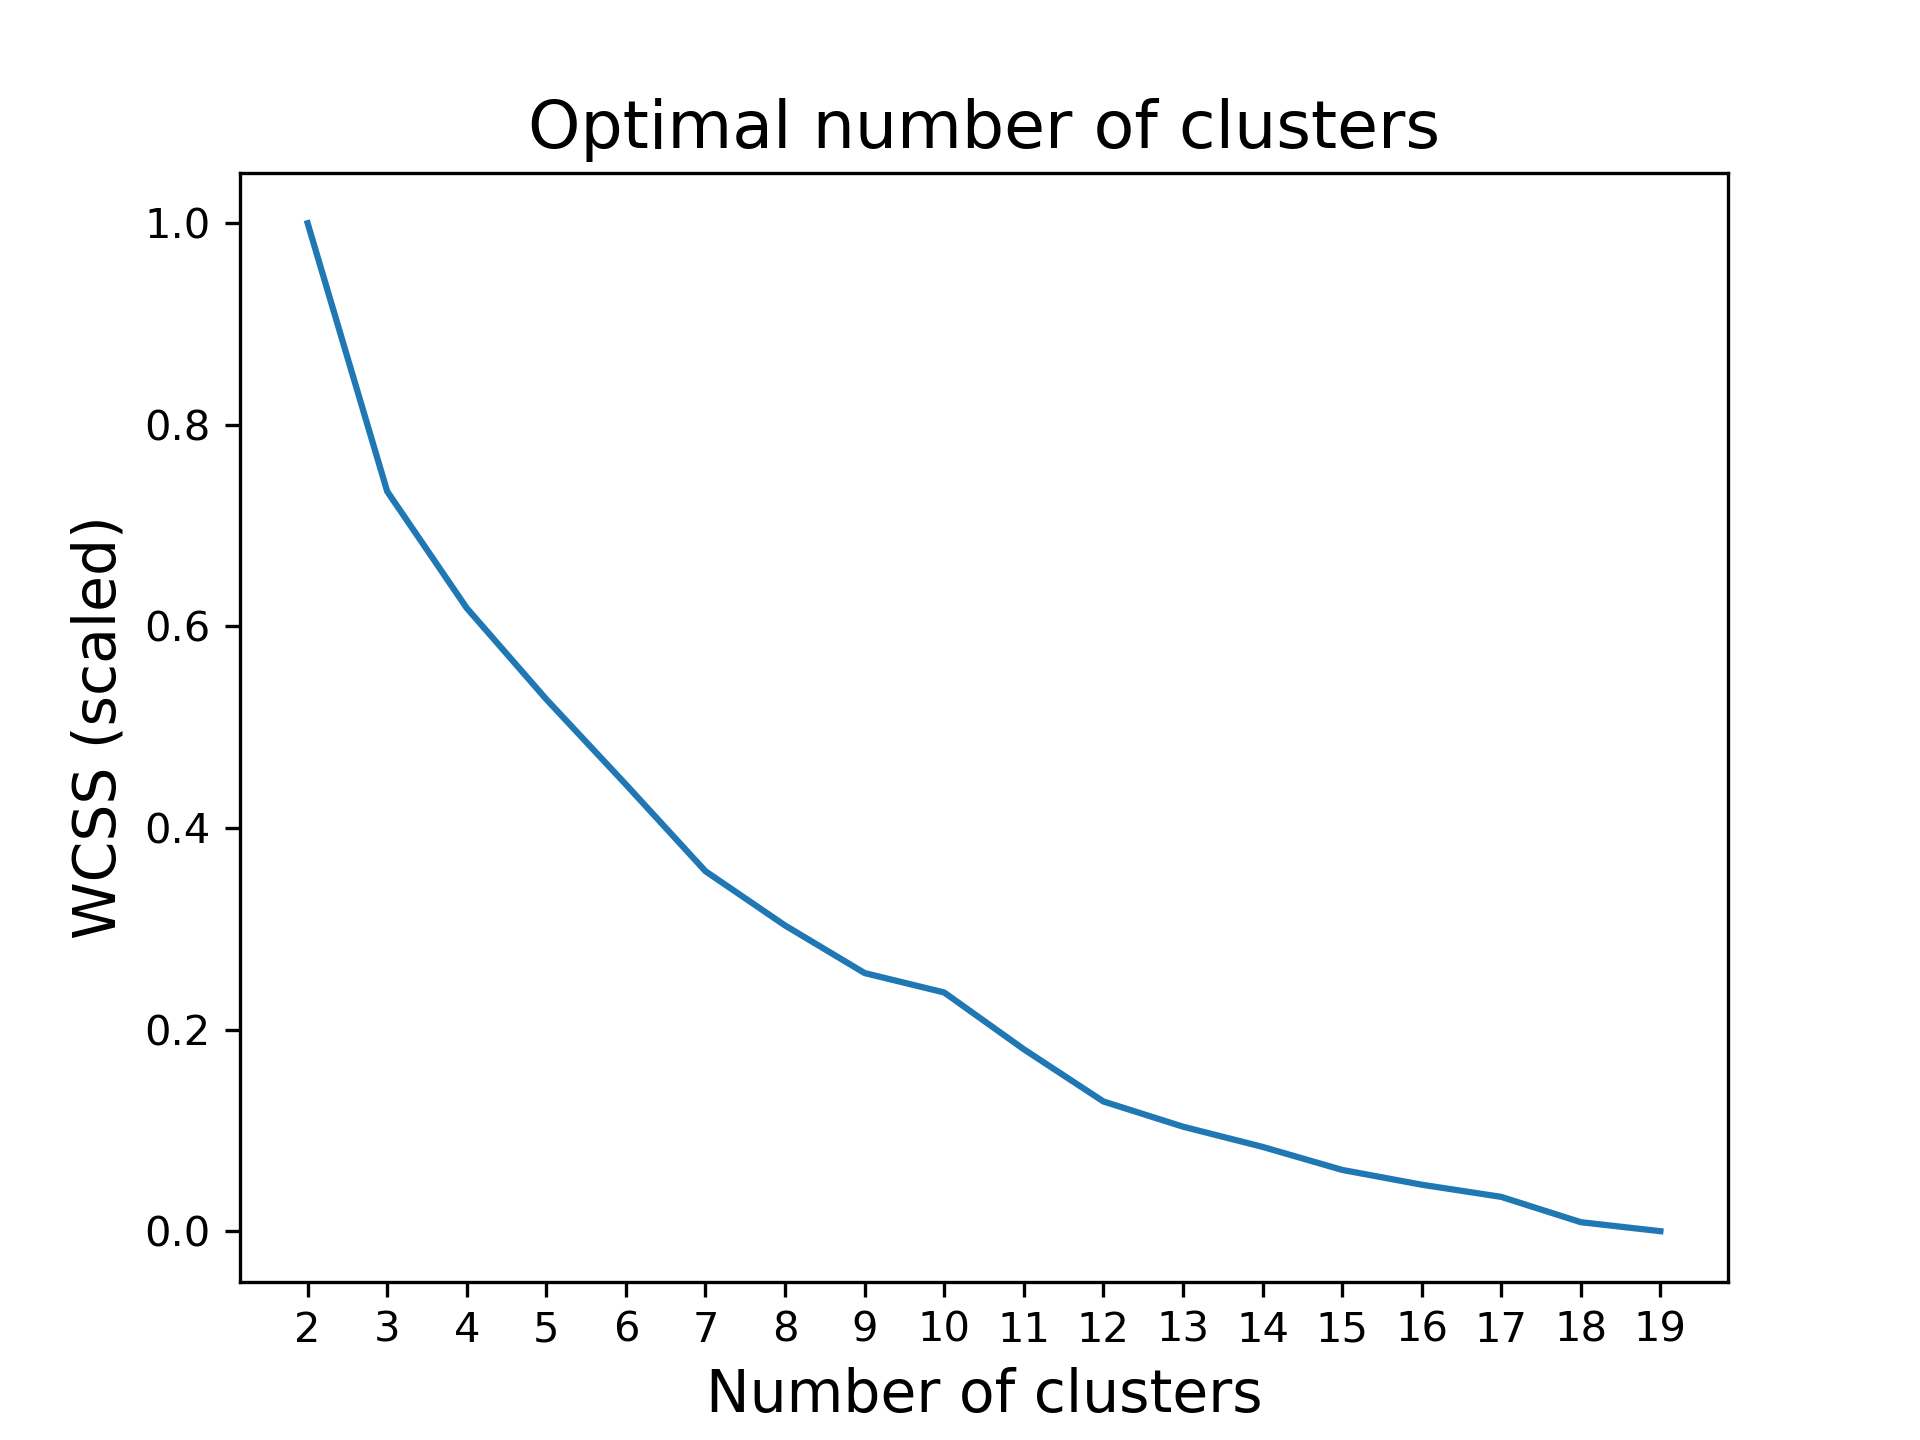
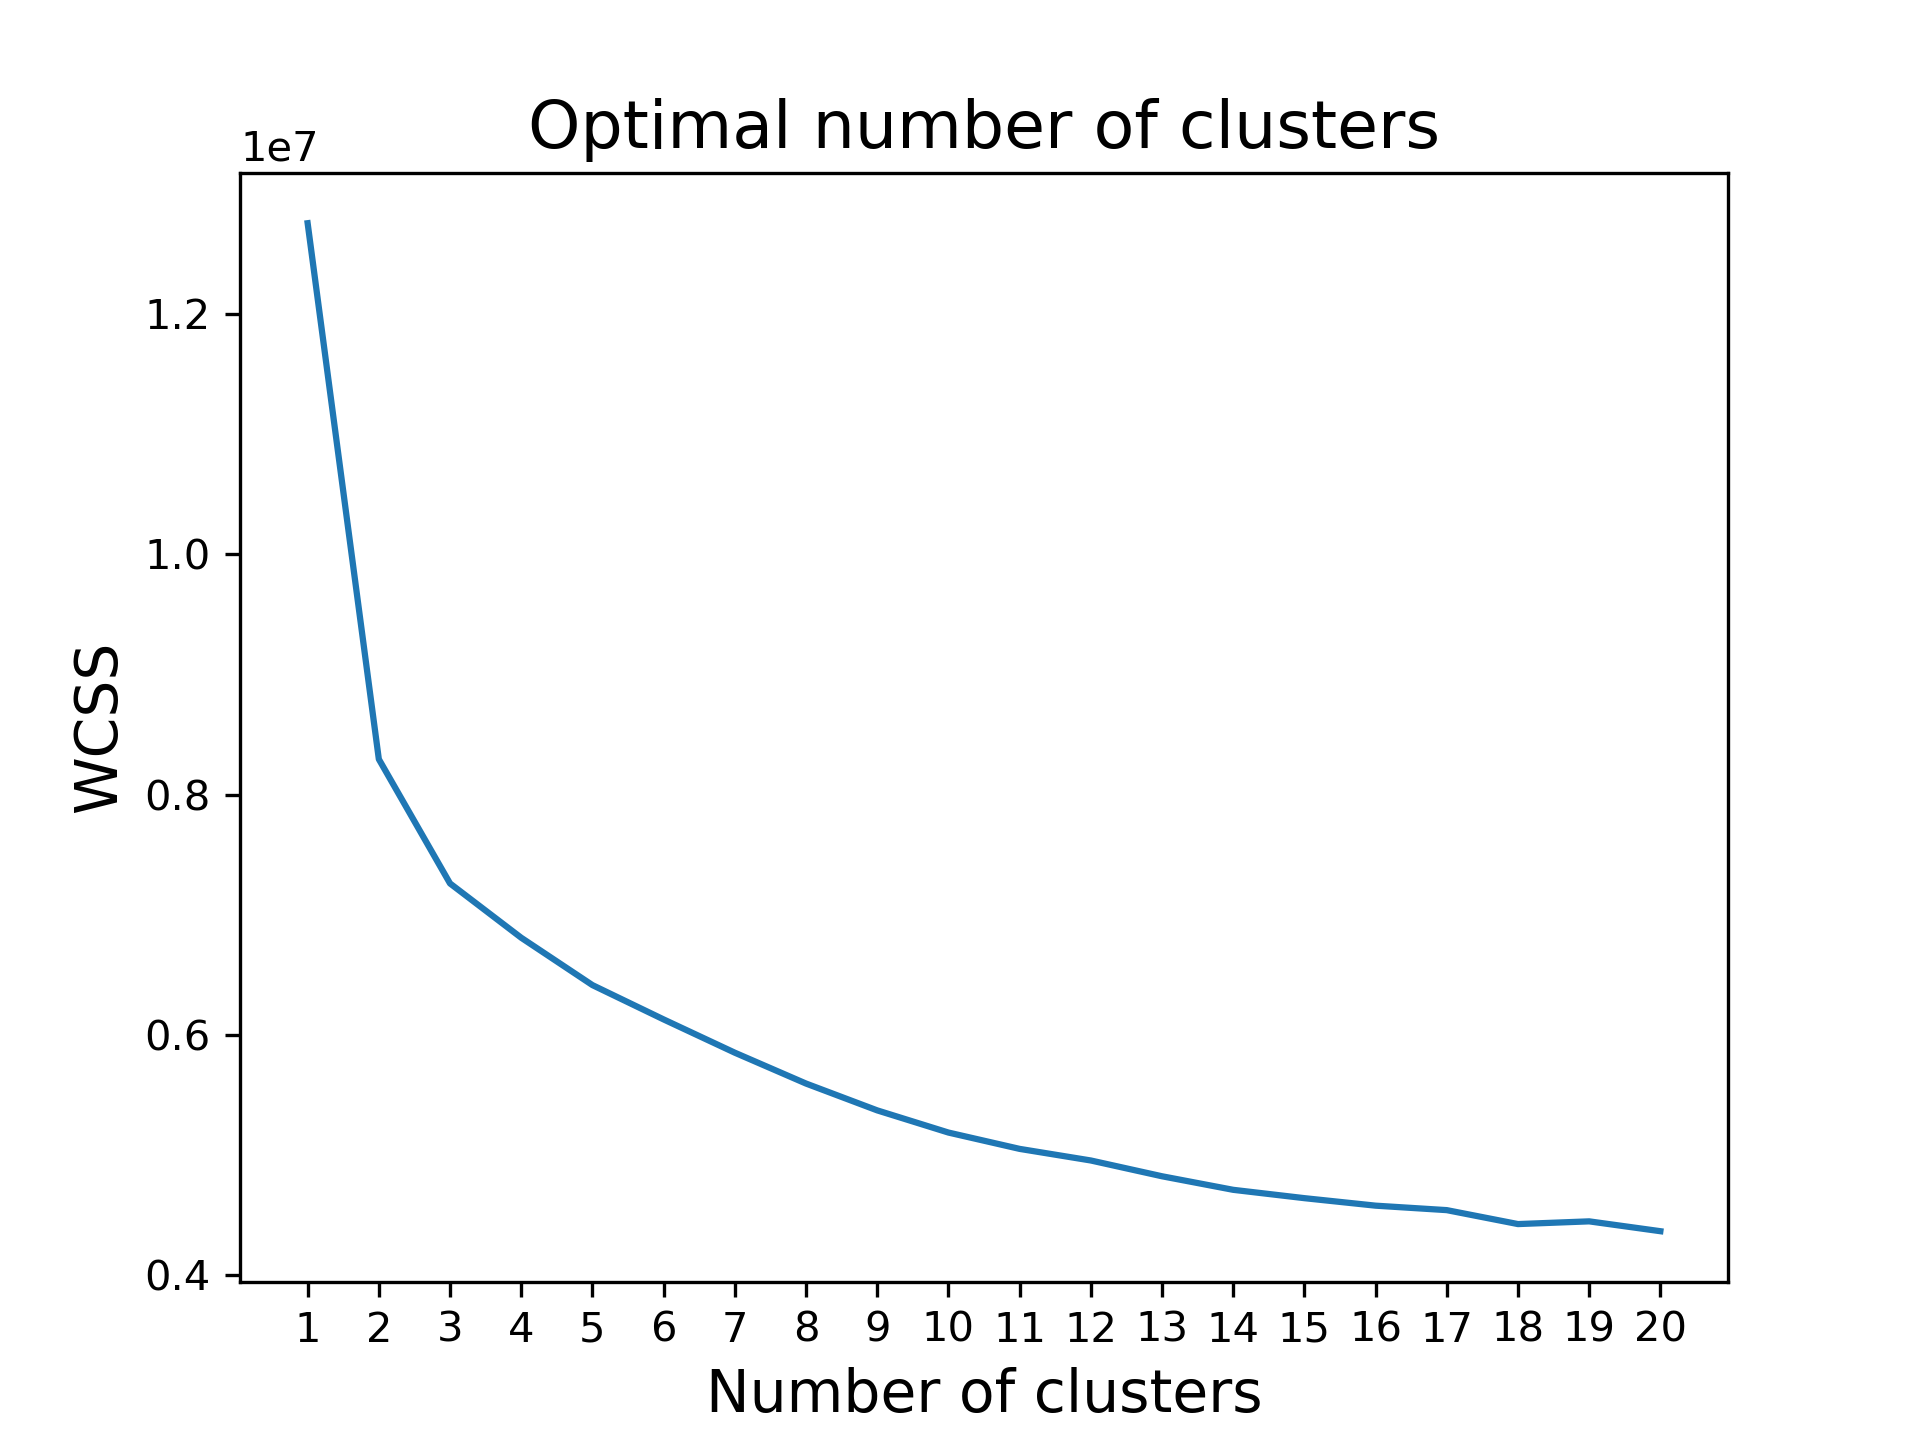
up

diff --git a/clustering/ts_clustering_ct_birch.py b/clustering/ts_clustering_ct_birch.py
@@ -8,7 +8,7 @@ from statsmodels.tsa.seasonal import seasonal_decompose
 import math
 from sklearn.metrics import silhouette_score
 
-from modules import graph
+from modules import graph, loader
 
 # import pandas as pd
 # import seaborn as sns
@@ -46,11 +46,22 @@ def getOptimalClustersKmeans(data, max_clusters):
                                     'euclidean'), axis=1)) / data.shape[0] for k in range(len(kmeanModels))]
     dist = {k: getD(n_clusters[0], distortions[0], n_clusters[max_clusters-1],
                     distortions[max_clusters-1], k, distortions[k-1]) for k in n_clusters}
+    WCSS_vect = [kmeanModels[k].inertia_ for k in range(len(kmeanModels))]
+    print(WCSS_vect)
     # plt.plot(distortions)
     # plt.show()
 
+
     fig = graph.plot(distortions, list(n_clusters), "Optimal number of clusters", "Number of clusters", "Distortion")
-    graph.save_figure(fig, "./figs/eval_trends_dist.png")
+    graph.save_figure(fig, "./figs/eval_dist.png")
+    print(distortions)
+    loader.save_as_csv_1d("clusters_dist.csv", distortions)
+
+    fig = graph.plot(WCSS_vect, list(n_clusters), "Optimal number of clusters", "Number of clusters", "WCSS")
+    graph.save_figure(fig, "./figs/eval_inertia.png")
+    print(WCSS_vect)
+    loader.save_as_csv_1d("clusters_inertia.csv", WCSS_vect)
+    quit()
 
     optimalClusters = max(dist, key=dist.get)
     return optimalClusters
@@ -108,8 +119,8 @@ def BirchClustering(X, n_clusters=20):
 # python3.7 ts_clustering.py water_avg_weekly.csv 100 20
 if __name__ == "__main__":
     if len(sys.argv) < 2:
-        # fn = "data/Water weekly/water_avg_weekly.csv"
-        fn = "data/Water weekly/water_avg_weekly_trends.csv"
+        fn = "data/Water weekly/water_avg_weekly.csv"
+        # fn = "data/Water weekly/water_avg_weekly_trends.csv"
         samples = 100
         n_clusters = 20
     else:
@@ -122,23 +133,23 @@ if __name__ == "__main__":
     X_Kmeans = df.iloc[:, 3:]
 
     # K-Means
-    # clusters, centers, optimalClusters = KMeansClustering(
-    #     X_Kmeans, n_clusters=n_clusters)
-    # values = np.unique(clusters)
-    # for idx in range(0, optimalClusters):
-    #     TSAnalysis(centers[idx])
+    clusters, centers, optimalClusters = KMeansClustering(
+        X_Kmeans, n_clusters=n_clusters)
+    values = np.unique(clusters)
+    for idx in range(0, optimalClusters):
+        TSAnalysis(centers[idx])
 
-    # print(silhouette_score(X_Kmeans, clusters))
+    print(silhouette_score(X_Kmeans, clusters))
 
-    # quit()
+    quit()
 
-    # plt.figure()
-    # for idx in range(0, optimalClusters):
-    #     plt.plot(centers[idx], label='C'+str(idx+1))
-    # plt.legend(bbox_to_anchor=(0., 1.02, 1., .102), loc='lower left',
-    #            ncol=optimalClusters, mode="expand", borderaxespad=0.)
-    # plt.show()
-    # plt.close()
+    plt.figure()
+    for idx in range(0, optimalClusters):
+        plt.plot(centers[idx], label='C'+str(idx+1))
+    plt.legend(bbox_to_anchor=(0., 1.02, 1., .102), loc='lower left',
+               ncol=optimalClusters, mode="expand", borderaxespad=0.)
+    plt.show()
+    plt.close()
 
 
     # Birch

diff --git a/clustering/show_comp_elbow.py b/clustering/show_comp_elbow.py
@@ -1,0 +1,45 @@
+
+
+from modules import loader, graph, utils
+import numpy as np
+
+filenames = ["clusters_inertia.csv", "clusters_dist.csv",
+             "clusters_trends_inertia.csv", "clusters_trends_dist.csv"]
+d2 = []
+for f in filenames:
+    d = loader.load_dataset(f)[0]
+    d = utils.normalize_axis_01(np.array([d]), 1).tolist()[0]
+    # d = d.tolist()
+    d2.append(d)
+
+d2np = np.array(d2)
+d2np = np.transpose(d2np)
+s = np.shape(d2np)
+
+xlabels = [(i+1) for i in list(range(s[0]))]
+
+print(xlabels)
+xlabels = None
+
+print(d2np)
+
+# xlabels = None
+# quit()
+
+tss = utils.create_timeseries_rows(d2np, ["A1", "A2", "B1", "B2"], None)
+fig = graph.plot_timeseries_multi_sub2(
+    [tss], ["Optimal number of clusters"], "Number of clusters", ["Distortion"], None, None, None, xlabels)
+
+# fig = graph.plot(distortions, list(n_clusters), "Optimal number of clusters", "Number of clusters", "Distortion")
+# print(d)
+
+# fig = graph.plot(distortions, list(n_clusters), "Optimal number of clusters", "Number of clusters", "Distortion")
+# graph.save_figure(fig, "./figs/eval_dist.png")
+# print(distortions)
+# loader.save_as_csv_1d("clusters_dist.csv", distortions)
+
+# fig = graph.plot(WCSS_vect, list(n_clusters), "Optimal number of clusters", "Number of clusters", "WCSS")
+# graph.save_figure(fig, "./figs/eval_inertia.png")
+# print(WCSS_vect)
+# loader.save_as_csv_1d("clusters_inertia.csv", WCSS_vect)
+# quit()

diff --git a/clustering/modules/graph.py b/clustering/modules/graph.py
@@ -126,7 +126,7 @@ def plot_xy(x, y, rads, labels, colors, title, xlabel, ylabel, scale, show_legen
     return fig
 
 
-def plot_timeseries_multi_sub2(timeseries_arrays: List[List[Timeseries]], title, xlabel, ylabel, figsize, ndivx, ndiv):
+def plot_timeseries_multi_sub2(timeseries_arrays: List[List[Timeseries]], title, xlabel, ylabel, figsize, ndivx, ndiv, xlabels = None):
     matplotlib.style.use('default')
     id = 0
 
@@ -145,8 +145,12 @@ def plot_timeseries_multi_sub2(timeseries_arrays: List[List[Timeseries]], title,
         plt.grid()
         for ts in timeseries_array:
             ndata = len(ts.x)
-            x = ts.x
+            if xlabels:
+                x = xlabels
+            else:
+                x = ts.x
             y = ts.y
+
             plt.plot(x, y, label=ts.label, color=ts.color)
             if n_sub == 1 or (i == (n_sub - 1)):
                 set_disp(title[i], xlabel, ylabel[i])
@@ -165,10 +169,15 @@ def plot_timeseries_multi_sub2(timeseries_arrays: List[List[Timeseries]], title,
     if ndiv is not None:
         ax.set_xticks(ax.get_xticks()[::ndiv])
 
+    yint = []
+    locs, labels = plt.xticks()
+    yint = x
+    # for each in locs:
+    #     yint.append(int(each))
+    plt.xticks(yint)
+
     fig = plt.gcf()
-
     plt.show()
-
     return fig
 
 

diff --git a/clustering/modules/utils.py b/clustering/modules/utils.py
@@ -84,6 +84,42 @@ def create_timeseries(data, header, datax=None):
 
     return tss
 
+def create_timeseries_rows(data, header, datax=None):
+    tss: List[Timeseries] = []
+    # colors = ['blue', 'red', 'green', 'orange']
+    # colors = ['Red', 'Orange', 'Yellow', 'Green', 'Blue', 'Indigo']
+
+    ck = 0
+    sdata = np.shape(data)
+    print(sdata)
+    
+    rows = sdata[0]
+    cols = sdata[1]   
+
+    colors = cm.rainbow(np.linspace(0, 1, cols))
+    # colors = cm.viridis(np.linspace(0, 1, cols))
+
+    for j in range(cols):
+        ts: Timeseries = Timeseries()
+        try:
+            ts.label = header[j]
+        except:
+            ts.label = "unknown"
+        ts.color = colors[ck]
+        ck += 1
+        if ck >= len(colors):
+            ck = 0
+
+        for i in range(rows):
+            if datax is not None:
+                ts.x.append(datax[i][j])
+            else:
+                ts.x.append(i)
+            ts.y.append(data[i][j])
+        tss.append(ts)
+        ts = None
+
+    return tss
 
 def normalize_sum_axis(a, ax=0):
     new_matrix = normalize_sum_1(a, ax)

diff --git a/clustering/modules/loader.py b/clustering/modules/loader.py
@@ -97,5 +97,22 @@ def binarize(x):
     return x
 
 
+def save_as_csv_2d(filename, np2d):
+    data = ""
+    s = np.shape(np2d)
+    for i in range(s[0]):
+        for j in range(s[1]):
+            data += str(np2d[i][j])+","
+        data += "\n"
+    with open(filename, "w") as f:
+        f.write(data)
+
+def save_as_csv_1d(filename, np1d):
+    data = ""
+    for el in np1d:
+        data += str(el)+","
+    with open(filename, "w") as f:
+        f.write(data)
+
 if __name__ == "__main__":
     clean("./data/models/crt")
